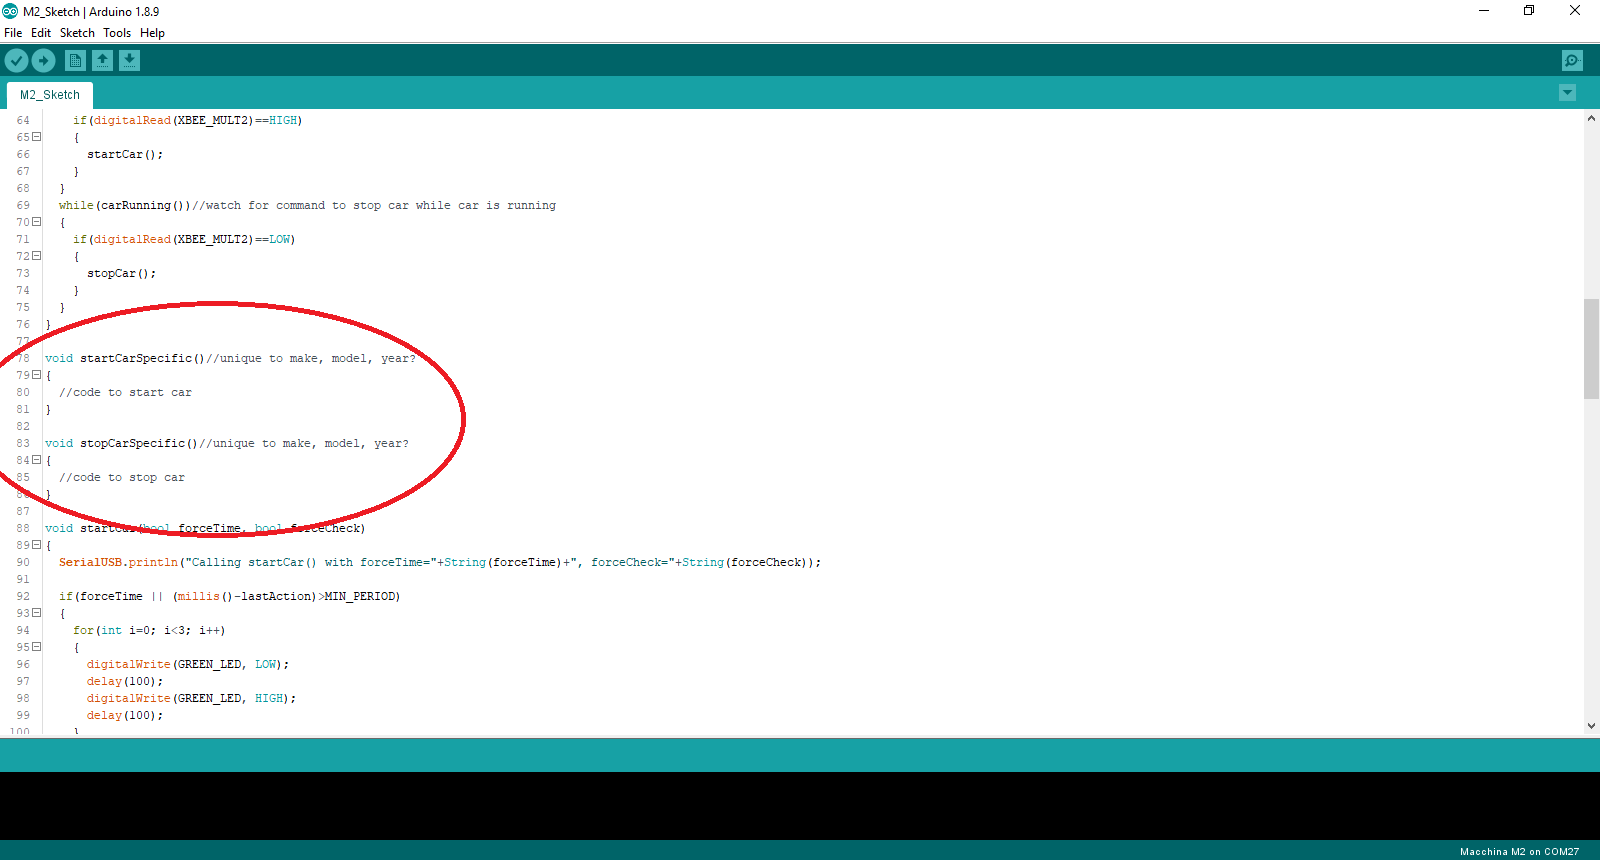
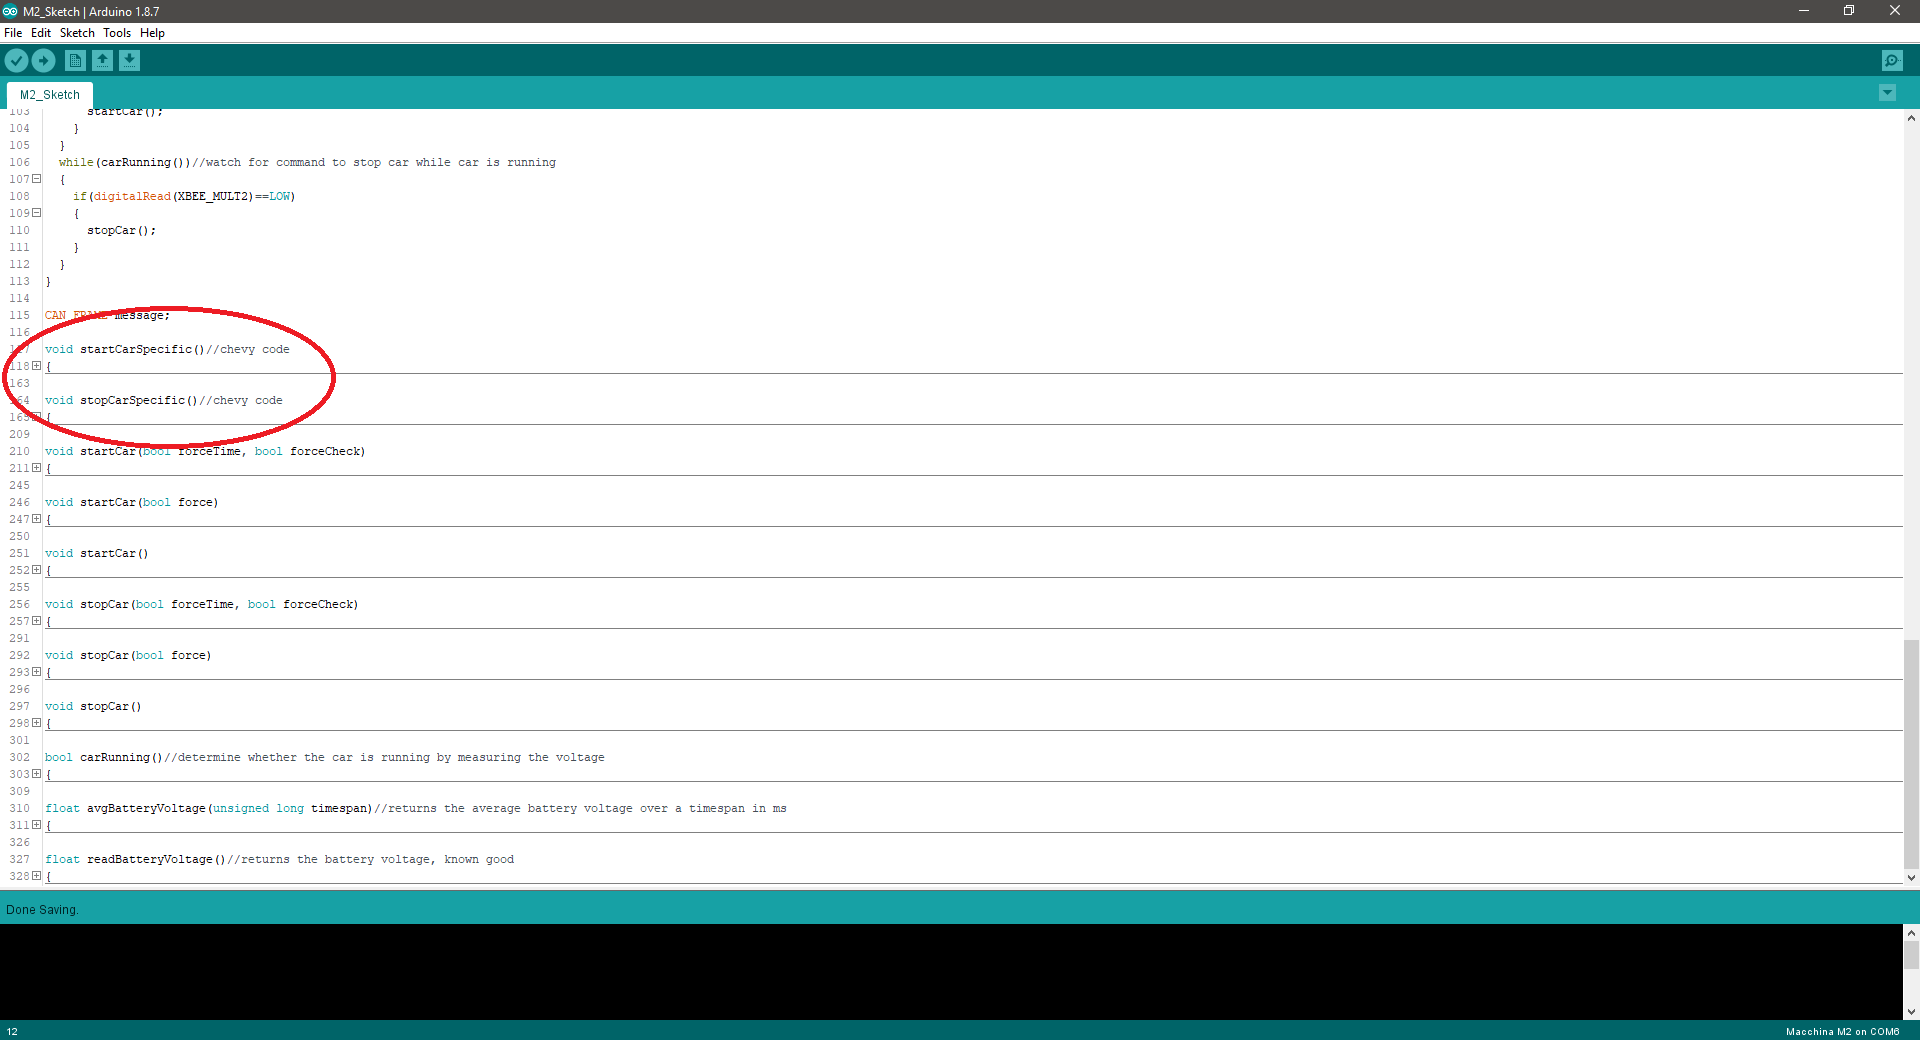
More car instructions

diff --git a/superB/projects/ok_google_start_my_car.md b/superB/projects/ok_google_start_my_car.md
@@ -71,8 +71,8 @@ If you're interested in using more than just one pin the SuperB pinout can be fo
 
 ## Step 4-Flash M2
 1. Download the M2 sketch [here.](https://github.com/kenny-macchina/Ok-Google-Start-My-Car/tree/master/M2_Sketch)
-2. This sketch uses the M2_12VIO library found [here](https://github.com/TDoust/M2_12VIO) and the pwm library found [here,](https://github.com/antodom/pwm_lib) make sure you have them installed.
-3. Determine which version of M2 you have [here.](http://docs.macchina.cc/m2/versions.html) Comment out the V4 specific line shown below if you have V3 or earlier, otherwise leave the code as is.
+2. This sketch uses the M2_12VIO library found [here,](https://github.com/TDoust/M2_12VIO) the pwm library found [here,](https://github.com/antodom/pwm_lib) and the mcp2515 library found [here,](https://github.com/macchina/Single-Wire-CAN-mcp2515) make sure you have them installed.
+3. Determine which version of M2 you have [here.](http://docs.macchina.cc/m2/versions.html) Comment out the V4 specific line in the readBatteryVoltage() function if you have V3 or earlier, otherwise leave the code as is.
     ![image showing code to modify for different versions of M2](/images/Ok_Google_Car/M21.PNG)
-4. Fill in startCarSpecific() and stopCarSpecific() with the commands relevant to your vehicle. (This may take some work to determine!)
+4. The startCarSpecific() and stopCarSpecific() functions are pre-populated with Chevy specific CAN messages. You'll have to determine what CAN messages to send for other cars. (This may take some work to determine!)
     ![image showing start and stop functions](/images/Ok_Google_Car/M22.PNG)
